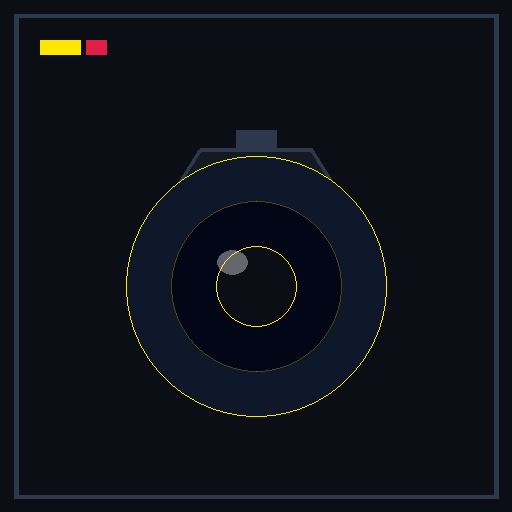
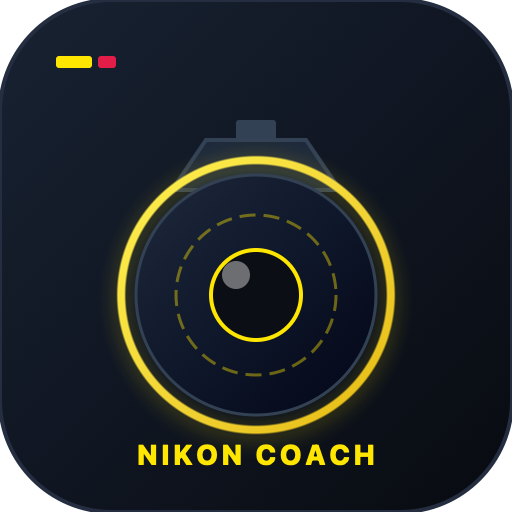
fix(pwa): regenerar iconos 192/512 de alta definicion, separar purpose any/maskable y blindar no-cache en manifest y sw

diff --git a/public/sw.js b/public/sw.js
@@ -1,12 +1,6 @@
-const CACHE_NAME = 'nikoncoach-v4';
+const CACHE_NAME = 'nikoncoach-v5';
 const STATIC_ASSETS = [
   './',
-  'mochila',
-  'receta',
-  'simulador',
-  'misiones',
-  'mentor',
-  'equipo',
   'css/style.css',
   'js/app.js',
   'manifest.json',
@@ -39,7 +33,7 @@ self.addEventListener('activate', (event) => {
 self.addEventListener('fetch', (event) => {
   const url = new URL(event.request.url);
 
-  // Las llamadas a la API de IA o cálculo dinámico van directo a la red
+  // Las llamadas a la API de IA o cálculo dinámico van directo a la red (no se cachean)
   if (url.pathname.includes('/api/')) {
     event.respondWith(
       fetch(event.request).catch(() => {
@@ -55,15 +49,21 @@ self.addEventListener('fetch', (event) => {
     return;
   }
 
+  // Ignorar peticiones que no sean GET
+  if (event.request.method !== 'GET') {
+    return;
+  }
+
   // App shell y estáticos
   event.respondWith(
     fetch(event.request)
       .then((res) => {
-        const copy = res.clone();
-        caches.open(CACHE_NAME).then((cache) => cache.put(event.request, copy));
+        if (res.status === 200) {
+          const copy = res.clone();
+          caches.open(CACHE_NAME).then((cache) => cache.put(event.request, copy));
+        }
         return res;
       })
       .catch(() => caches.match(event.request))
   );
 });
-

diff --git a/public/js/app.js b/public/js/app.js
@@ -918,6 +918,13 @@ document.addEventListener('DOMContentLoaded', () => {
         });
     }
 
+    window.addEventListener('appinstalled', () => {
+        if (installAppBtn) {
+            installAppBtn.classList.add('hidden');
+        }
+        console.log('[NikonCoach PWA] ¡App instalada con éxito!');
+    });
+
     // Inicializaciones
     if (distanceSlider) updateDistanceUI(distanceSlider.value);
     syncFocalBounds();
